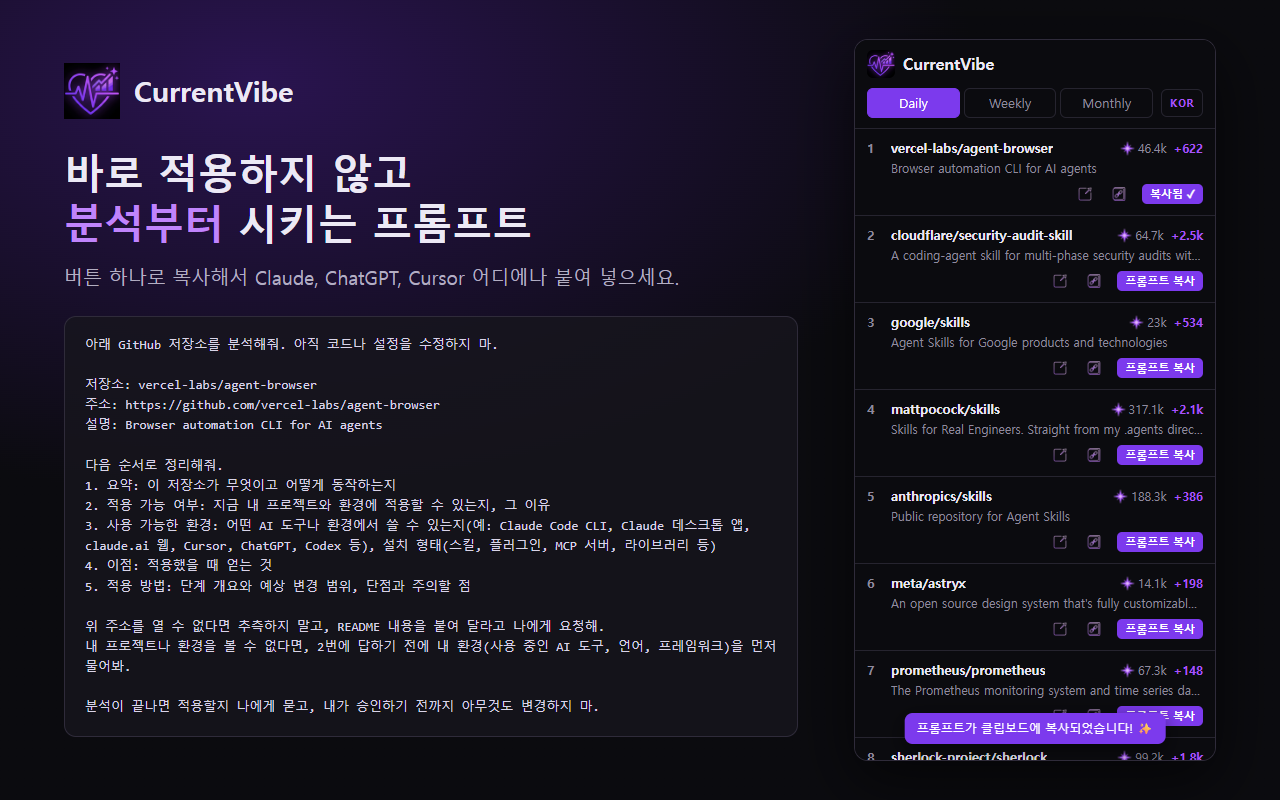
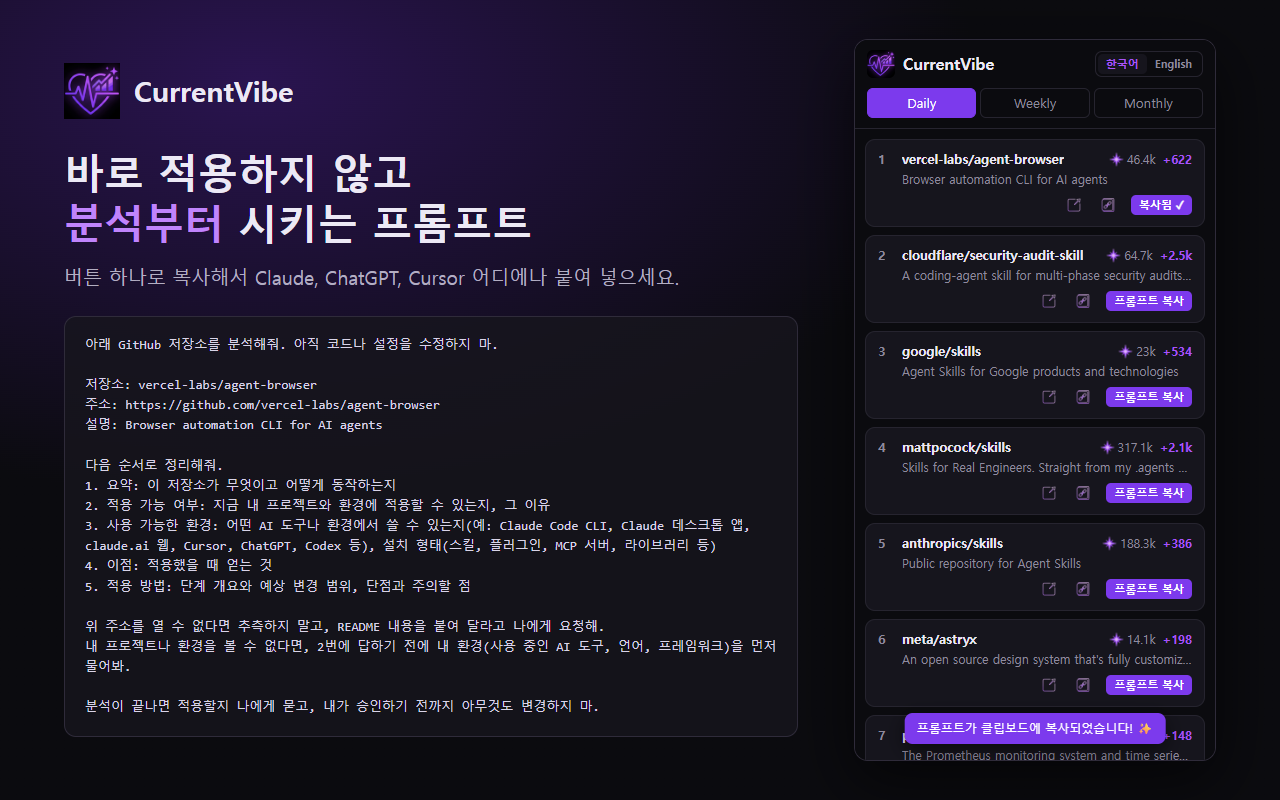
Language switch in brand row, card-style items, third store screenshot

Changed region(s): [[0.6875, 0.0625, 0.9375, 0.9688]]

diff --git a/sidebar.css b/sidebar.css
@@ -24,12 +24,14 @@ header {
   flex: 1; padding: 5px 0; border-radius: 6px; border: 1px solid var(--line); color: var(--muted);
 }
 #tabs button.on { background: var(--purple-strong); border-color: var(--purple-strong); color: #fff; }
-#lang {
-  padding: 5px 8px; border-radius: 6px; border: 1px solid var(--line);
-  font-size: 11px; font-weight: 600; letter-spacing: .5px; color: var(--purple);
-}
+/* Language switch: segmented control at the right of the brand row */
+#lang { margin-left: auto; display: flex; padding: 2px; border-radius: 7px; border: 1px solid var(--line); }
+#lang button { padding: 2px 8px; border-radius: 5px; font-size: 11px; font-weight: 600; color: var(--muted); }
+#lang button:hover { color: var(--text); }
+#lang button.on { background: var(--surface); color: var(--purple); }
 
-.item { padding: 10px 12px; border-bottom: 1px solid var(--line); }
+#list { display: flex; flex-direction: column; gap: 8px; padding: 10px; }
+.item { padding: 10px 12px; border: 1px solid var(--line); border-radius: 10px; background: var(--surface); }
 .row { display: flex; align-items: center; justify-content: space-between; gap: 8px; }
 .title { display: flex; gap: 6px; min-width: 0; }
 .rank { color: var(--muted); font-weight: 600; min-width: 18px; }
@@ -60,7 +62,7 @@ header {
 .primary:hover { background: var(--purple); }
 
 .more {
-  display: block; width: calc(100% - 24px); margin: 12px; padding: 7px 0; border-radius: 6px;
+  display: block; width: 100%; margin: 2px 0 6px; padding: 7px 0; border-radius: 8px;
   border: 1px solid var(--line); color: var(--muted); font-size: 12px;
 }
 .more:hover { color: var(--text); border-color: var(--purple-strong); }

diff --git a/src/sidebar.js b/src/sidebar.js
@@ -4,7 +4,7 @@ import { STRINGS, defaultLang } from './i18n.js';
 
 const $list = document.getElementById('list');
 const $tabs = [...document.querySelectorAll('#tabs button')];
-const $lang = document.getElementById('lang');
+const $langs = [...document.querySelectorAll('#lang button')];
 
 let lang = defaultLang(chrome.i18n?.getUILanguage?.() ?? navigator.language);
 let period = 'daily';
@@ -84,7 +84,7 @@ function renderItem(r) {
 
 function render() {
   document.documentElement.lang = lang;
-  $lang.textContent = lang === 'ko' ? 'KOR' : 'ENG';
+  for (const b of $langs) b.classList.toggle('on', b.dataset.lang === lang);
   for (const b of $tabs) {
     b.textContent = t(b.dataset.period);
     b.classList.toggle('on', b.dataset.period === period);
@@ -126,8 +126,8 @@ async function load(p) {
 }
 
 for (const b of $tabs) b.addEventListener('click', () => load(b.dataset.period));
-$lang.addEventListener('click', () => {
-  lang = lang === 'ko' ? 'en' : 'ko';
+for (const b of $langs) b.addEventListener('click', () => {
+  lang = b.dataset.lang;
   chrome.storage.local.set({ lang });
   render();
 });

diff --git a/sidebar.html b/sidebar.html
@@ -8,14 +8,15 @@
 </head>
 <body>
   <header>
-    <div class="brand"><img src="icons/icon48.png" alt="">CurrentVibe</div>
+    <div class="brand"><img src="icons/icon48.png" alt="">CurrentVibe
+      <div id="lang" role="group" aria-label="Language"><button data-lang="ko">한국어</button><button data-lang="en">English</button></div>
+    </div>
     <div class="bar">
     <nav id="tabs">
       <button data-period="daily"></button>
       <button data-period="weekly"></button>
       <button data-period="monthly"></button>
-    </nav>
-    <button id="lang" title="KOR / ENG"></button>
+    </nav>
     </div>
   </header>
   <main id="list"></main>

diff --git a/docs/store/listing.md b/docs/store/listing.md
@@ -3,7 +3,7 @@
 ## 제출 파일
 - 패키지: `dist/currentvibe-1.0.0.zip` (`npm run pack`으로 생성)
 - 아이콘: `icons/icon128.png` (128 × 128 PNG)
-- 스크린샷: `docs/store/screenshot-1.png`, `docs/store/screenshot-2.png` (1280 × 800 PNG)
+- 스크린샷: `docs/store/screenshot-1.png`, `docs/store/screenshot-2.png`, `docs/store/screenshot-3.png` (1280 × 800 PNG)
 
 ## 한국어
 
